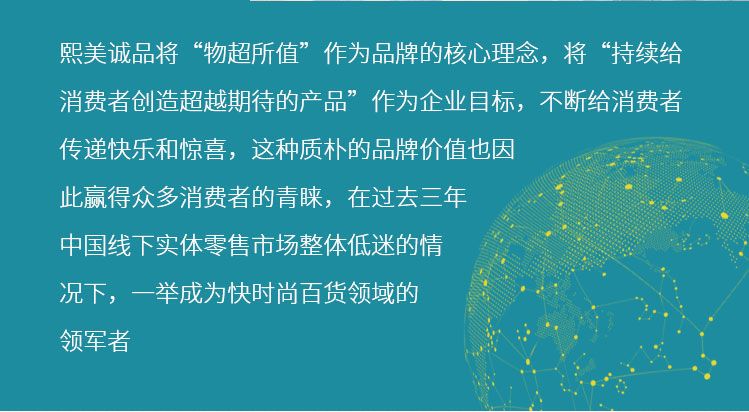
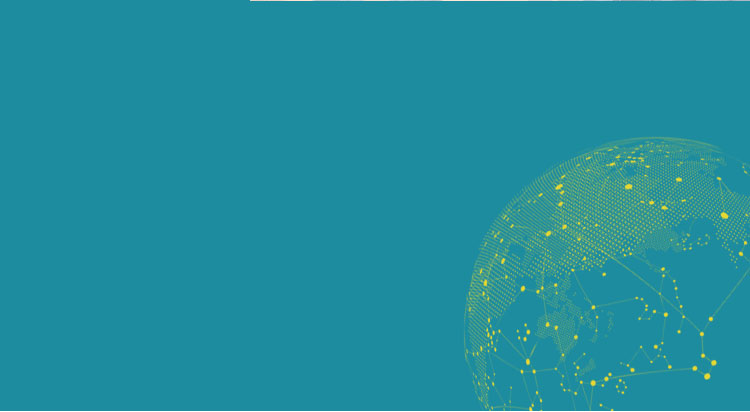
修改企业介绍页面

diff --git a/src/components/enterprise.vue b/src/components/enterprise.vue
@@ -6,7 +6,22 @@
             
             <div class="floor1">
                 <img src="@/assets/images/企业.jpg" alt="">
-                <p>熙美诚品拥有10年零售百货行业加盟经验，8大运营中心 21个分公司及办事处，44家直营店，从业人员达到8000多 是中国快时尚百货行业的开拓者和引领者！</p>
+                <p class="textarea">熙美诚品拥有10年零售百货行业加盟经验，8大运营中心 21个分公司及办事处，44家直营店，从业人员达到8000多 是中国快时尚百货行业的开拓者和引领者！</p>
+                <div class="yuanjin">
+                    <p class="one">我们的愿景</p>
+                    <p class="two">做快时尚第一品牌</p>
+                    <p class="three">To Be the First Brand of Fast fashion General Merchandise</p>
+                </div>
+                <div class="shiming">
+                    <p class="one">我们的使命</p>
+                    <p class="two">构筑成功，引领时尚</p>
+                    <p class="three">Construct Success and Leading the Fashion</p>
+                </div>
+                <div class="hexin">
+                    <p class="one">核心价值观</p>
+                    <p class="two">诚信、团结、创新、高效、责任、感恩、利他</p>
+                    <p class="three">Integrity, Unity, Innovation, Efficiency, Responsibility, Gratitude and Altruism</p>
+                </div>
             </div>
             <Carousel v-model="value1" loop autoplay  arrow="never" class="progress address">
                 <CarouselItem>
@@ -37,12 +52,12 @@
                     </div>
                 </CarouselItem>
             </Carousel>
-            <img src="@/assets/images/company/earth.jpg" alt="">
-            <!-- <div class="floor2">
-                <p>熙美诚品将“物超所值”作为品牌的核心理念，将“持续给消费者创造超越期待的产品”作为企业目标，不断给消费者传递快乐和惊喜，
-                    这种质朴的品牌价值也因此赢得众多消费者的青睐，在过去三年中国线下实体零售市场整体低迷的情况下，一举成为快时尚百货领域的领军者。
-                </p> -->
-            <!-- </div> -->
+            <div class="floor0">
+                <!-- <img src="@/assets/images/company/earth.jpg" alt=""> -->
+                <p class="floor-content">熙美诚品将“物超所值”作为品牌的核心理念，将“持续给消费者创造超越期待的产品”作为企业目标，不断给消费者传递快乐和惊喜，这
+                    种质朴的品牌价值也因此赢得众多消费者的青睐，在过去三年中国 线下实体零售市场整体低迷的情况下，一举成为快时尚百货领域的领军者。
+                </p>
+            </div>
             <div class="floor2">
                 <div class="f1" style="background: none;">
                     <p class="p1">Cooperative Brand</p>

diff --git a/src/assets/style/enterprise.less b/src/assets/style/enterprise.less
@@ -1,6 +1,6 @@
 .floor1{
     position: relative;
-    p{
+    p.textarea{
         position: absolute;
         top: 15%;
         width: 80%;
@@ -9,6 +9,38 @@
         line-height: 25px;
         text-align: center;
         letter-spacing: 0.3px;
+    }
+    .yuanjin,.hexin,.shiming{
+        position: absolute;
+        text-align: center;
+        font-family: 宋体;
+        width: 100%;
+        p.one{
+            letter-spacing: 10px;
+            font-size: 18px;
+            color: #1d8c9f;
+            margin-bottom: 58%;
+            font-weight: 400;
+        }
+        p.two{
+            font-size: 15px;
+            letter-spacing: 3px;
+        }
+        p.three{
+            color: #c8c8c8;
+            font-family: 微软雅黑;
+            font-size: 10px;
+            letter-spacing: -1px;
+        }
+    }
+    .yuanjin{
+        top: 23%;
+    }
+    .shiming{
+        top: 50%;
+    }
+    .hexin{
+        top: 75%;
     }
 }
 .address{
@@ -53,5 +85,17 @@
                 color: #1d8c9f;
             }
         }
+    }
+}
+.floor0{
+    background:url('../images/company/earth.jpg') center no-repeat;
+    p.floor-content{
+        color: #fff;
+        letter-spacing: 2px;
+        font-family: 宋体;
+        line-height: 23px;
+        font-size: 14px;
+        padding:20px;
+        
     }
 }

diff --git a/src/components/home.vue b/src/components/home.vue
@@ -201,7 +201,7 @@
             <img :src="src" alt="">
         </Modal>
         <BackTop :bottom="10" :right="10">
-                <div class="top"><span class="iconfont">&#xe63f;</span></div>
+            <div class="top"><span class="iconfont">&#xe63f;</span></div>
         </BackTop>
         <!-- 底部内容 -->
         <Footer v-show="show"></Footer>

diff --git a/src/components/school.vue b/src/components/school.vue
@@ -109,7 +109,6 @@
                 </div>
                 <img src="@/assets/images/school/2.jpg" alt="" style="width: 95%;display: block;margin: auto;">
             </div>
-            
         </div>
         <BackTop :bottom="10" :right="10">
             <div class="top"><span class="iconfont">&#xe63f;</span></div>

diff --git a/src/components/header.vue b/src/components/header.vue
@@ -25,7 +25,6 @@
             <div style="height: 60px;width: 100%;">
                 <a href="tel:4008635888"><img src="@/assets/images/phone.png" alt=""></a>
             </div>
-            
         </div>
     </div>
 </template>
